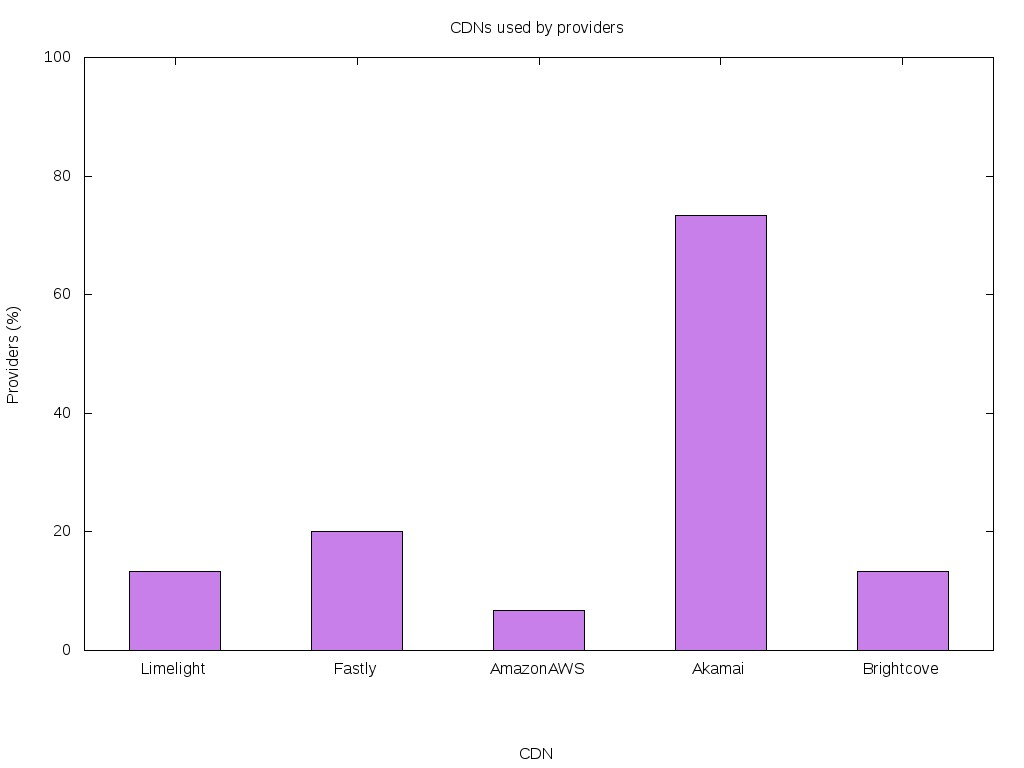
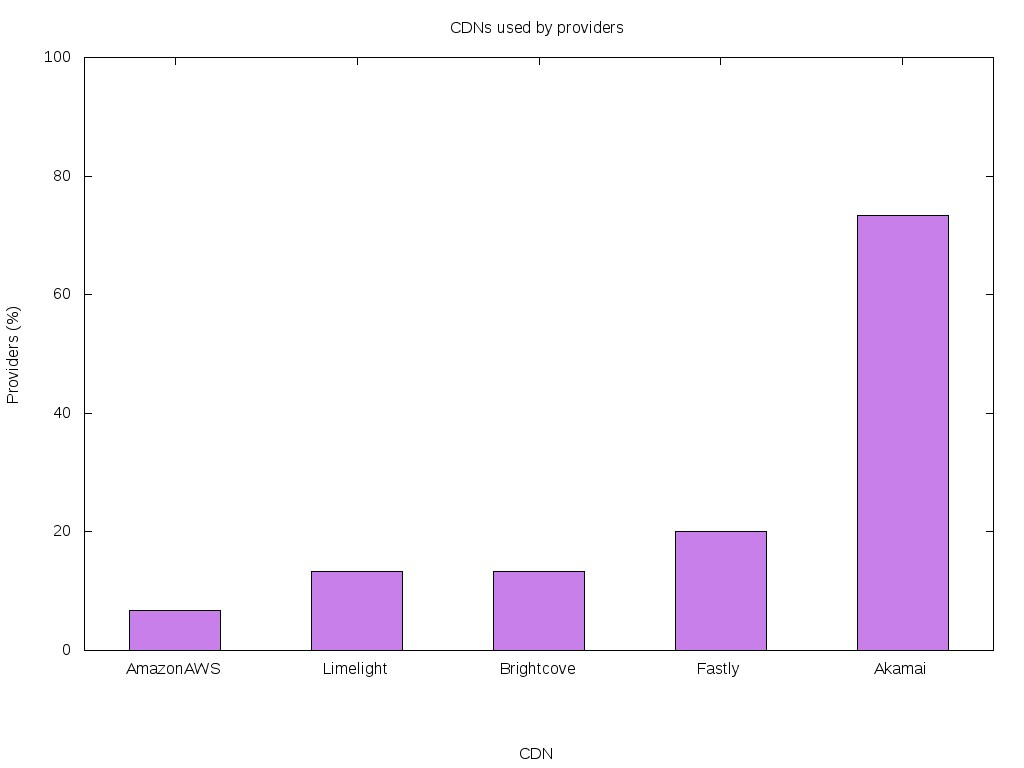
cdn plot 2

diff --git a/analysis/analysis.py b/analysis/analysis.py
@@ -4,6 +4,7 @@ import os
 import json
 import glob
 import socket
+import operator
 from ipwhois import IPWhois
 
 def create_bitrate_bar_plot(provider_info):
@@ -123,8 +124,8 @@ def create_cdn_bar_plot(provider_info):
         g.write("#seq cdn percentage_of_providers\n")
         counter = 1
 
-        for cdn in cdn_usage:
-            g.write("%d %s %.2f\n" % (counter, cdn, (cdn_usage[cdn]*1.0)/(total_providers*1.0)*100))
+        for cdn in sorted(cdn_usage.items(), key=operator.itemgetter(1)):
+            g.write("%d %s %.2f\n" % (counter, cdn[0], (cdn[1]*1.0)/(total_providers*1.0)*100))
             counter += 1
     return
 
